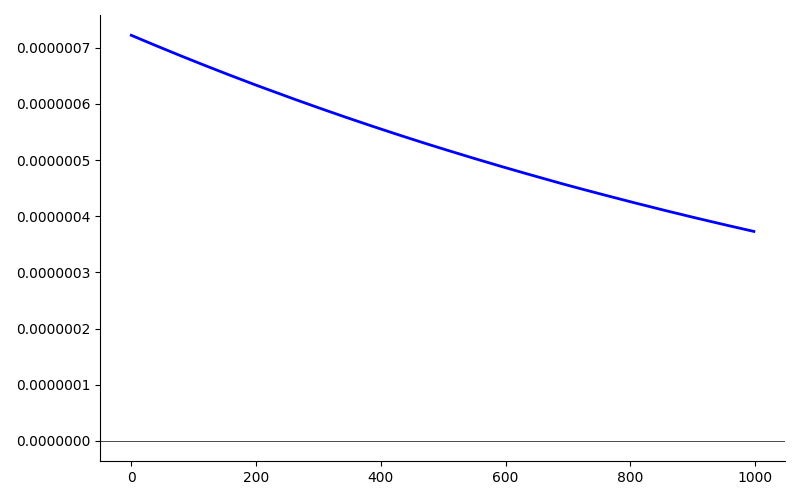
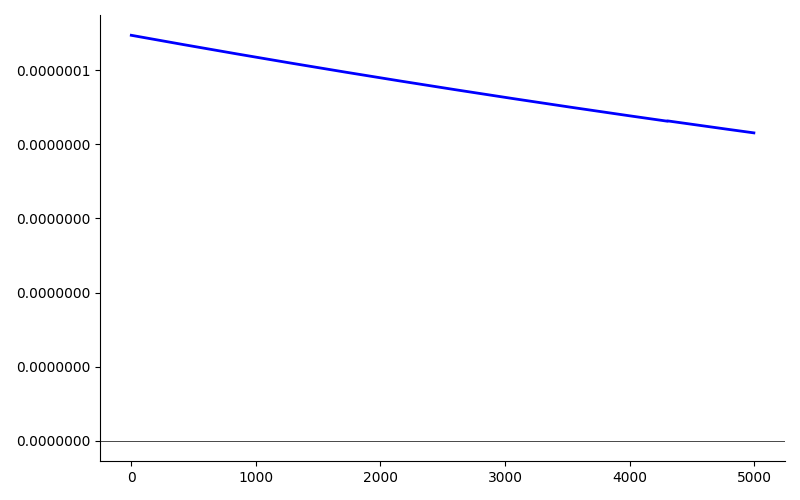
added an input from the user

diff --git a/PythonApplication1/main.py b/PythonApplication1/main.py
@@ -1,4 +1,5 @@
 import numpy as np
+import argparse
 
 from activations import Activation_ReLU, Activatioin_Softmax
 from weightsBiases import Layer_Dense
@@ -8,39 +9,70 @@ from charts import makeChart
 from losses import MSELoss
 from generateData import generateData
 
-loss = float('inf')         #starting loss
-iterations = 1000            #amount of iterations, how much times it would run the optimisation
-change = 0.05               #amount by which weights and biases should change each iteration
-losses = []                 #array that stores the last 10 losses
-differenceOfLosses = []     #array to store the differences of the last two losses(for future analysis)
+def generate(iterations, change):
+    """
+    Generates the images
+    
+    :param iterations: amount of iterations, how much times it would run the optimisation
+    :param change: amount by which weights and biases should change each iteration
+    """
+    loss = float('inf')         #starting loss
+    losses = []                 #array that stores the last 10 losses
+    differenceOfLosses = []     #array to store the differences of the last two losses(for future analysis)
 
-dense1 = Layer_Dense(10, 10)         
-activation1 = Activation_ReLU()     
+    dense1 = Layer_Dense(10, 10)         
+    activation1 = Activation_ReLU()     
 
-dense2 = Layer_Dense(10, 5)        
-activation2 = Activation_ReLU()    
+    dense2 = Layer_Dense(10, 5)        
+    activation2 = Activation_ReLU()    
 
-dense3 = Layer_Dense(5, 3)          
-activation3 = Activatioin_Softmax() 
+    dense3 = Layer_Dense(5, 3)          
+    activation3 = Activatioin_Softmax() 
 
-denses = [dense1, dense2, dense3]                       #all denses are added to one array, to pass them to future functions
-activations = [activation1, activation2, activation3]   
+    denses = [dense1, dense2, dense3]                       #all denses are added to one array, to pass them to future functions
+    activations = [activation1, activation2, activation3]   
 
-X, y = generateData()
+    X, y = generateData()
 
-optimiser = Optimiser(X, y, activations, change)       
+    optimiser = Optimiser(X, y, activations, change)       
 
-for i in range(0, iterations):          #cycle which will optimize NN the required number of times
-    print(f"Iteration {i}")
-    loss = iteration(X, y, denses, activations)
-    optimiser.optimise()                #optimising denses
-    print(f"Loss {loss}")
+    for i in range(0, iterations):          #cycle which will optimize NN the required number of times
+        print(f"Iteration {i}")
+        loss = iteration(X, y, denses, activations)
+        optimiser.optimise()                #optimising denses
+        print(f"Loss {loss}")
 
-    losses.append(loss)                                                                     # appending the loss to the losses array
-    if len(losses) > 1 : differenceOfLosses.append(losses[i-1] - losses[i])                 # appends the change in loss to the progressOfLosses array
+        losses.append(loss)                                                                     # appending the loss to the losses array
+        if len(losses) > 1 : differenceOfLosses.append(losses[i-1] - losses[i])                 # appends the change in loss to the progressOfLosses array
+
+    makeChart(losses, "changeOfLoss.png")
+    makeChart(differenceOfLosses, "changeOfLossPerIteration.png")
+
+# TODO
+# 1. gere values from the commandline
+# 2. call generate with this values
 
 
-print(loss)
-print(iterations)
-makeChart(losses, "changeOfLoss.png")
-makeChart(differenceOfLosses, "changeOfLossPerIteration.png")
+parser = argparse.ArgumentParser()
+
+parser.add_argument(
+    "-i", "--iterations",
+    type=int,
+    default=1000
+)
+
+parser.add_argument(
+    "-m", "--multiplier",
+    type=float,
+    default=0.01
+)
+
+args = parser.parse_args()
+
+if not (1 <= args.iterations):
+    parser.error("iterations must be >= 1")
+
+generate(args.iterations, args.multiplier)
+
+print(f"Iterations: {args.iterations}")
+print(f"Multiplier: {args.multiplier}")

diff --git a/README.md b/README.md
@@ -12,7 +12,17 @@ The graphs could look like this:
 ![changeOfLoss](images/changeOfLoss.png)
 ![examchangeOfLossPerIterationple](images/changeOfLossPerIteration.png)
 
-You can adjust both the number of iterations and the magnitude by which the weights and biases are updated in each iteration in [main.py](PythonApplication1/main.py). At the end of the program, it will display two graphs: the first shows the overall change in loss per iteration, while the second illustrates how the loss varies with each iteration.
+Advaced usage:
+
+You can adjust both the number of iterations and the magnitude by which the weights and biases are updated in each iteration by using the following parameters.
+
+* `-i` - Number of iterations (positive value > 0, default 10000)
+* `-m` - magnitude (floating point value, default 0.05)
+
+Here is an example:
+
+    python3 PythonApplication1/main.py -i 
+
 
 ## Prerequsites
 
